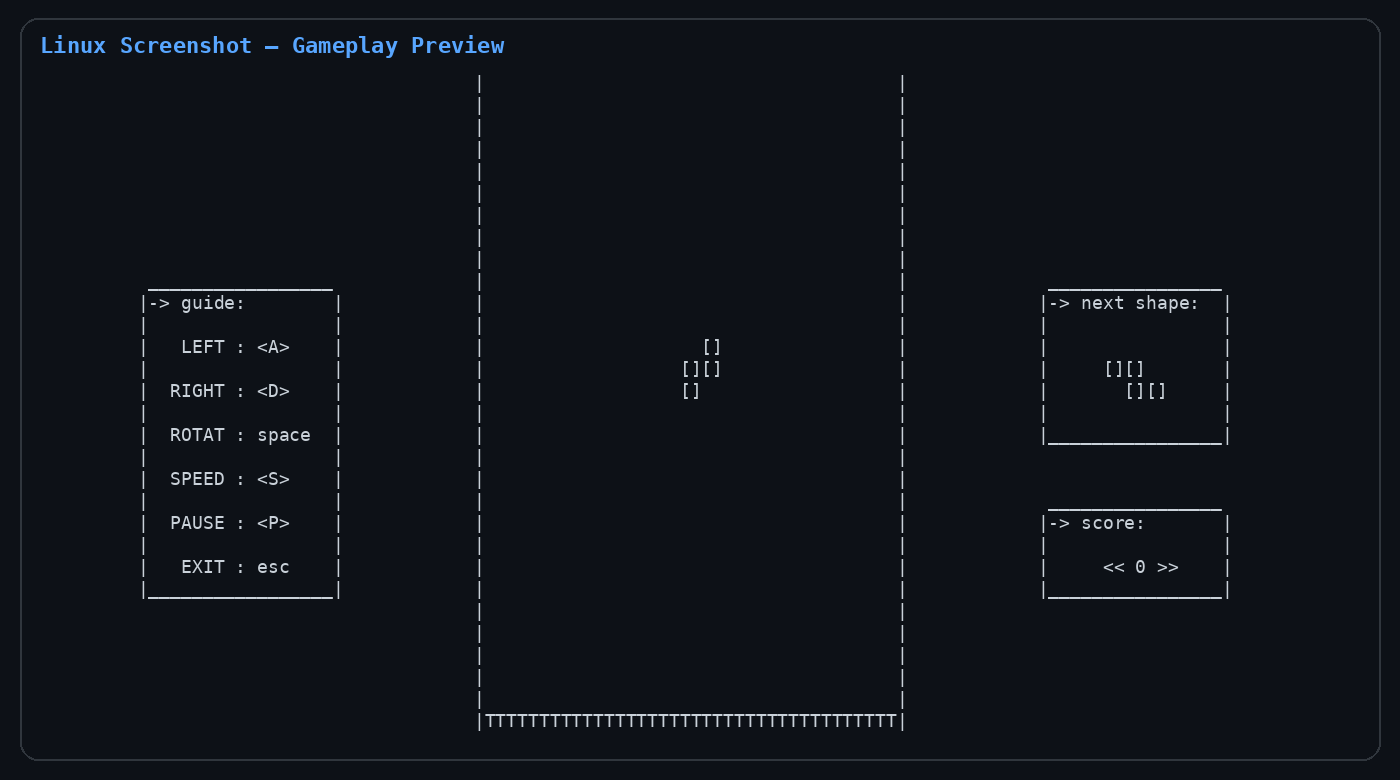
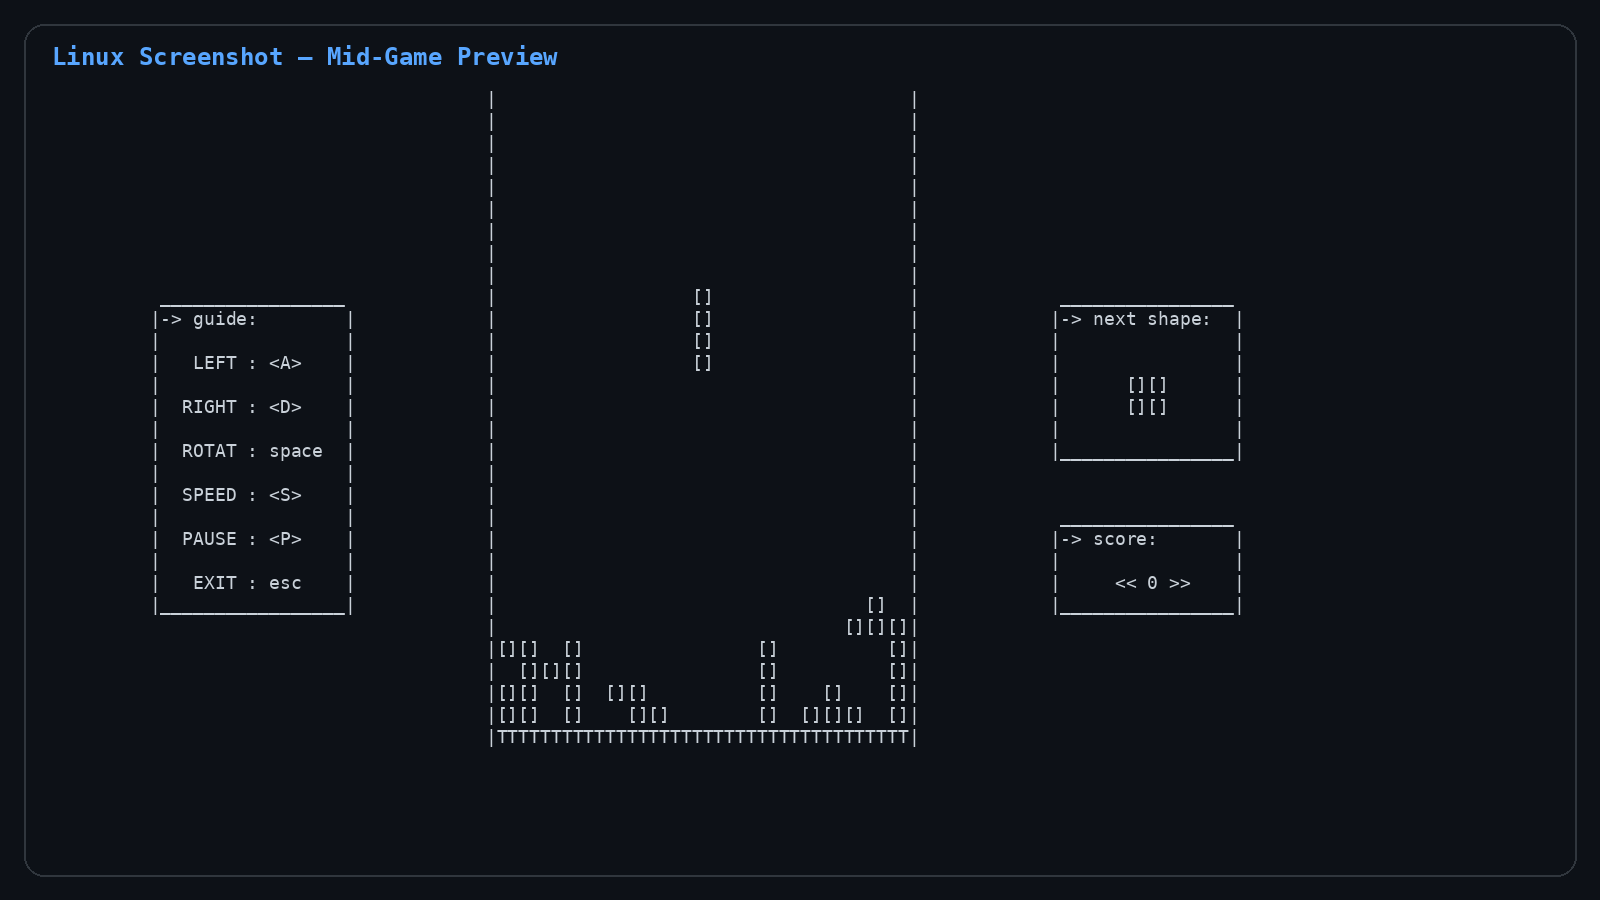
feat: align Linux gameplay polish with game repositories

diff --git a/src/console.c b/src/console.c
@@ -40,6 +40,13 @@ void console_set_color(const char *color_code)
     system(command);
 }
 
+void console_flash_background(const char *color_code, unsigned int milliseconds)
+{
+    console_set_color(color_code);
+    console_sleep_ms(milliseconds);
+    console_set_color("0F");
+}
+
 int console_kbhit(void)
 {
     return _kbhit();
@@ -105,9 +112,55 @@ void console_sleep_ms(unsigned int milliseconds)
     nanosleep(&requested_time, NULL);
 }
 
+static int hex_digit_to_int(char digit)
+{
+    if (digit >= '0' && digit <= '9') {
+        return digit - '0';
+    }
+    if (digit >= 'A' && digit <= 'F') {
+        return digit - 'A' + 10;
+    }
+    if (digit >= 'a' && digit <= 'f') {
+        return digit - 'a' + 10;
+    }
+    return -1;
+}
+
 void console_set_color(const char *color_code)
 {
-    (void)color_code;
+    static const int foreground_codes[16] = {
+        30, 34, 32, 36, 31, 35, 33, 37,
+        90, 94, 92, 96, 91, 95, 93, 97
+    };
+    static const int background_codes[16] = {
+        40, 44, 42, 46, 41, 45, 43, 47,
+        100, 104, 102, 106, 101, 105, 103, 107
+    };
+
+    if (color_code == NULL || color_code[0] == '\0' || color_code[1] == '\0') {
+        printf("\033[0m");
+        fflush(stdout);
+        return;
+    }
+
+    const int background = hex_digit_to_int(color_code[0]);
+    const int foreground = hex_digit_to_int(color_code[1]);
+
+    if (background < 0 || foreground < 0) {
+        printf("\033[0m");
+    } else {
+        printf("\033[%d;%dm", background_codes[background], foreground_codes[foreground]);
+    }
+    fflush(stdout);
+}
+
+void console_flash_background(const char *color_code, unsigned int milliseconds)
+{
+    console_set_color(color_code);
+    console_clear();
+    console_sleep_ms(milliseconds);
+    console_set_color("0F");
+    console_clear();
 }
 
 int console_kbhit(void)

diff --git a/src/tetris.c b/src/tetris.c
@@ -13,6 +13,7 @@ static int is_enter_key(int character)
 int show_tetris_sign(void)
 {
     console_set_color("03");
+    console_clear();
     printf("\n\n\n\n    _______________________________________________________________________________________________________________\n  ");
     printf(" |-> release in : 2023/12/19                                                                                     |\n  ");
     printf(" |                                             IN THE NAME OF GOD                                                |\n  ");
@@ -600,9 +601,8 @@ void score_delete(char game[TETRIS_SCREEN_WIDTH][TETRIS_SCREEN_HEIGHT], int scor
 
 int show_gameover_sign(void)
 {
-    console_set_color("0C");
     console_set_color("C0");
-    console_set_color("0C");
+    console_clear();
     printf("                                                                                                                 \n  ");
     printf("                                                                                                                 \n  ");
     printf("        << <<         #####   #####  ##     ##  #####        #####  #      #  #####  #####          >> >>        \n  ");

diff --git a/src/main.c b/src/main.c
@@ -40,9 +40,7 @@ static int run_game(void)
 
                 while ((score_level = score_sensor(game)) != 0) {
                     print_game(game, score, next_shape);
-                    console_set_color("A0");
-                    console_sleep_ms(100);
-                    console_set_color("0F");
+                    console_flash_background("A0", 100);
                     score += TETRIS_SCORE_PER_ROW;
                     score_delete(game, score_level);
                     print_game(game, score, next_shape);

diff --git a/include/console.h b/include/console.h
@@ -6,6 +6,7 @@ void console_clear(void);
 void console_pause(void);
 void console_sleep_ms(unsigned int milliseconds);
 void console_set_color(const char *color_code);
+void console_flash_background(const char *color_code, unsigned int milliseconds);
 int console_kbhit(void);
 int console_getch(void);
 

diff --git a/README.md b/README.md
@@ -1,37 +1,38 @@
-# Tetris (C Console Game)
+# 🧱 TETRIS (C Console Game)
 
 > **Basic Programming - University of Tehran - Department of Electrical & Computer Engineering**
 
-![Language](https://img.shields.io/badge/Language-C11-orange) ![Interface](https://img.shields.io/badge/Interface-Terminal-blue) ![Build](https://img.shields.io/badge/Build-Makefile-green) ![Status](https://img.shields.io/badge/Status-Completed-brightgreen)
+![Language](https://img.shields.io/badge/Language-C11-orange) ![Interface](https://img.shields.io/badge/Interface-Terminal-blue) ![Status](https://img.shields.io/badge/Status-In%20Progress-yellow)
 
-## 🎮 Overview
+## 📌 Overview
 
-This repository contains a console-based implementation of the classic **Tetris** game, developed in **C** using keyboard-driven terminal input. This project was carried out as the *Second Project* for the *Basic Programming* course at the University of Tehran.
+This repository contains a console-based implementation of the classic **TETRIS** game, developed in **C** using keyboard-driven terminal input. This project was carried out as the *Second Project* for the *Basic Programming* course at the University of Tehran.
 
-A compact recreation of the core **Tetris** gameplay loop, built from scratch in **C11** using a fixed terminal board, falling pieces, row clearing, score tracking, next-shape preview, pause/restart flow, and game-over detection.
+A compact recreation of the core **TETRIS** gameplay loop, built from scratch in **C11** using a fixed terminal board, falling pieces, row clearing, score tracking, next-shape preview, pause/restart flow, and game-over detection.
 
 This project was developed as part of my academic and personal exploration into **basic game development, procedural programming, terminal rendering, keyboard input handling, and cross-platform console behavior**.
 
-![Tetris – C Console Game](./files/README.png)
+![TETRIS – C Console Game](./files/README.png)
 
-## ✨ Features
+## 🎮 Features
 
 - Classic **falling-block gameplay**: move and rotate pieces, complete rows, and keep the board from filling up.
 - Implemented core mechanics:
-  - **O, I, Z, and T shapes** from the original submitted version.
-  - **Left/right movement**, speed control, and shape rotation.
-  - **Row-completion detection**, row deletion, and score updates.
-  - **Next-shape preview** beside the main board.
-  - **Pause, restart, and exit flow** through keyboard commands.
+  - 🧩 **O, I, Z, and T shapes** from the original submitted version.
+  - 🕹 **Left/right movement**, speed control, and shape rotation.
+  - 🕵 **Row-completion detection**, row deletion, and score updates.
+  - ⏭ **Next-shape preview** beside the main board.
+  - ⚙ **Pause, restart, and exit flow** through keyboard commands.
 - Terminal-based board system with a fixed play area, guide panel, score panel, and preview panel.
+- Console color feedback for gameplay events, including the green score flash and red game-over screen behavior from the original Windows version.
 - Modular C structure separating gameplay logic, console compatibility, and the main game loop.
-- Linux-compatible terminal input layer while preserving the original Windows console behavior.
+- Linux-compatible terminal input and ANSI color layer while preserving the original Windows console behavior.
 - Lightweight smoke tests for core board and gameplay helpers.
 
 ## 🛠 Tech Stack
 
 - **Language:** C11
-- **Interface:** Linux Terminal / Windows Console
+- **Interface:** Linux Terminal / Windows Console with ANSI/Win32 color feedback
 - **Build System:** Makefile
 - **Compiler:** GCC / MinGW GCC
 - **OS Compatibility:** Linux (tested), should work on Windows with MinGW installed
@@ -63,7 +64,7 @@ On Linux:
 ```bash
 make clean #Clean build files
 make
-./build/tetris
+./tetris.out
 ```
 
 On Windows with MinGW GCC:
@@ -71,20 +72,8 @@ On Windows with MinGW GCC:
 ```bash
 mingw32-make clean
 mingw32-make
-.\build\tetris.exe
-```
-
-## 🎮 Controls
-
-| Key | Action |
-| --- | --- |
-| `A` / `a` | Move the active shape left |
-| `D` / `d` | Move the active shape right |
-| `S` / `s` | Increase falling speed |
-| `Space` | Rotate the active shape |
-| `P` / `p` | Pause the game |
-| `Esc` | Open the exit/restart flow |
-| `Enter` | Start or restart the game |
+.\tetris.exe
+``` 
 
 ## 📁 Repository Structure
 
@@ -106,47 +95,30 @@ TETRIS/
 │       └── linux-gameplay-screen.png
 ├── tests/                   # Logic-level smoke tests
 │   └── test_tetris_logic.c  # Basic verification for gameplay helpers
+├── obj/                     # Test/build artifacts generated by make
 ├── Makefile                 # Build system configuration
 ├── .gitignore               # Ignored build, binary, editor, and OS artifacts
 ├── .gitattributes           # Line-ending normalization rules
 └── README.md                # Project documentation
 ```
 
-## 📸 Screenshots
+## 🎨 Screenshots
 
 <p align="center">
   <img src="./files/screenshots/linux-title-screen.png" alt="Linux Title Screen" width="49%">
   <img src="./files/screenshots/linux-gameplay-screen.png" alt="Linux Gameplay Preview" width="49%">
 </p>
 
-## 🧪 Testing
+## 📖 Future Improvements
 
-Run the smoke tests with:
-
-```bash
-make test
-```
-
-Expected output:
-
-```text
-All Tetris logic smoke tests passed.
-```
-
-## 🚧 Future Improvements
-
-- Add the full seven-piece modern Tetris shape set.
+- Add the full seven-piece modern TETRIS shape set.
 - Add persistent high-score storage.
-- Improve terminal colors and rendering on POSIX terminals.
+- Improve terminal rendering polish and add optional color themes.
 - Add menu polish, difficulty levels, and cleaner end-game screens.
 - Add automated input-driven gameplay tests.
 
-## 🙏 Acknowledgments
+## 🙌 Acknowledgments
 
-- Inspired by the classic **Tetris** game.
+- Inspired by the classic **TETRIS** game.
 - Built with ❤ using **C** and terminal-based input/output.
 - By **[Meraj Rastegar](https://github.com/mragetsars)**
-
-## About
-
-A console-based implementation of the classic Tetris game, developed in C with keyboard-driven terminal input. This project was carried out as the Second Project for the Basic Programming course at the University of Tehran.
